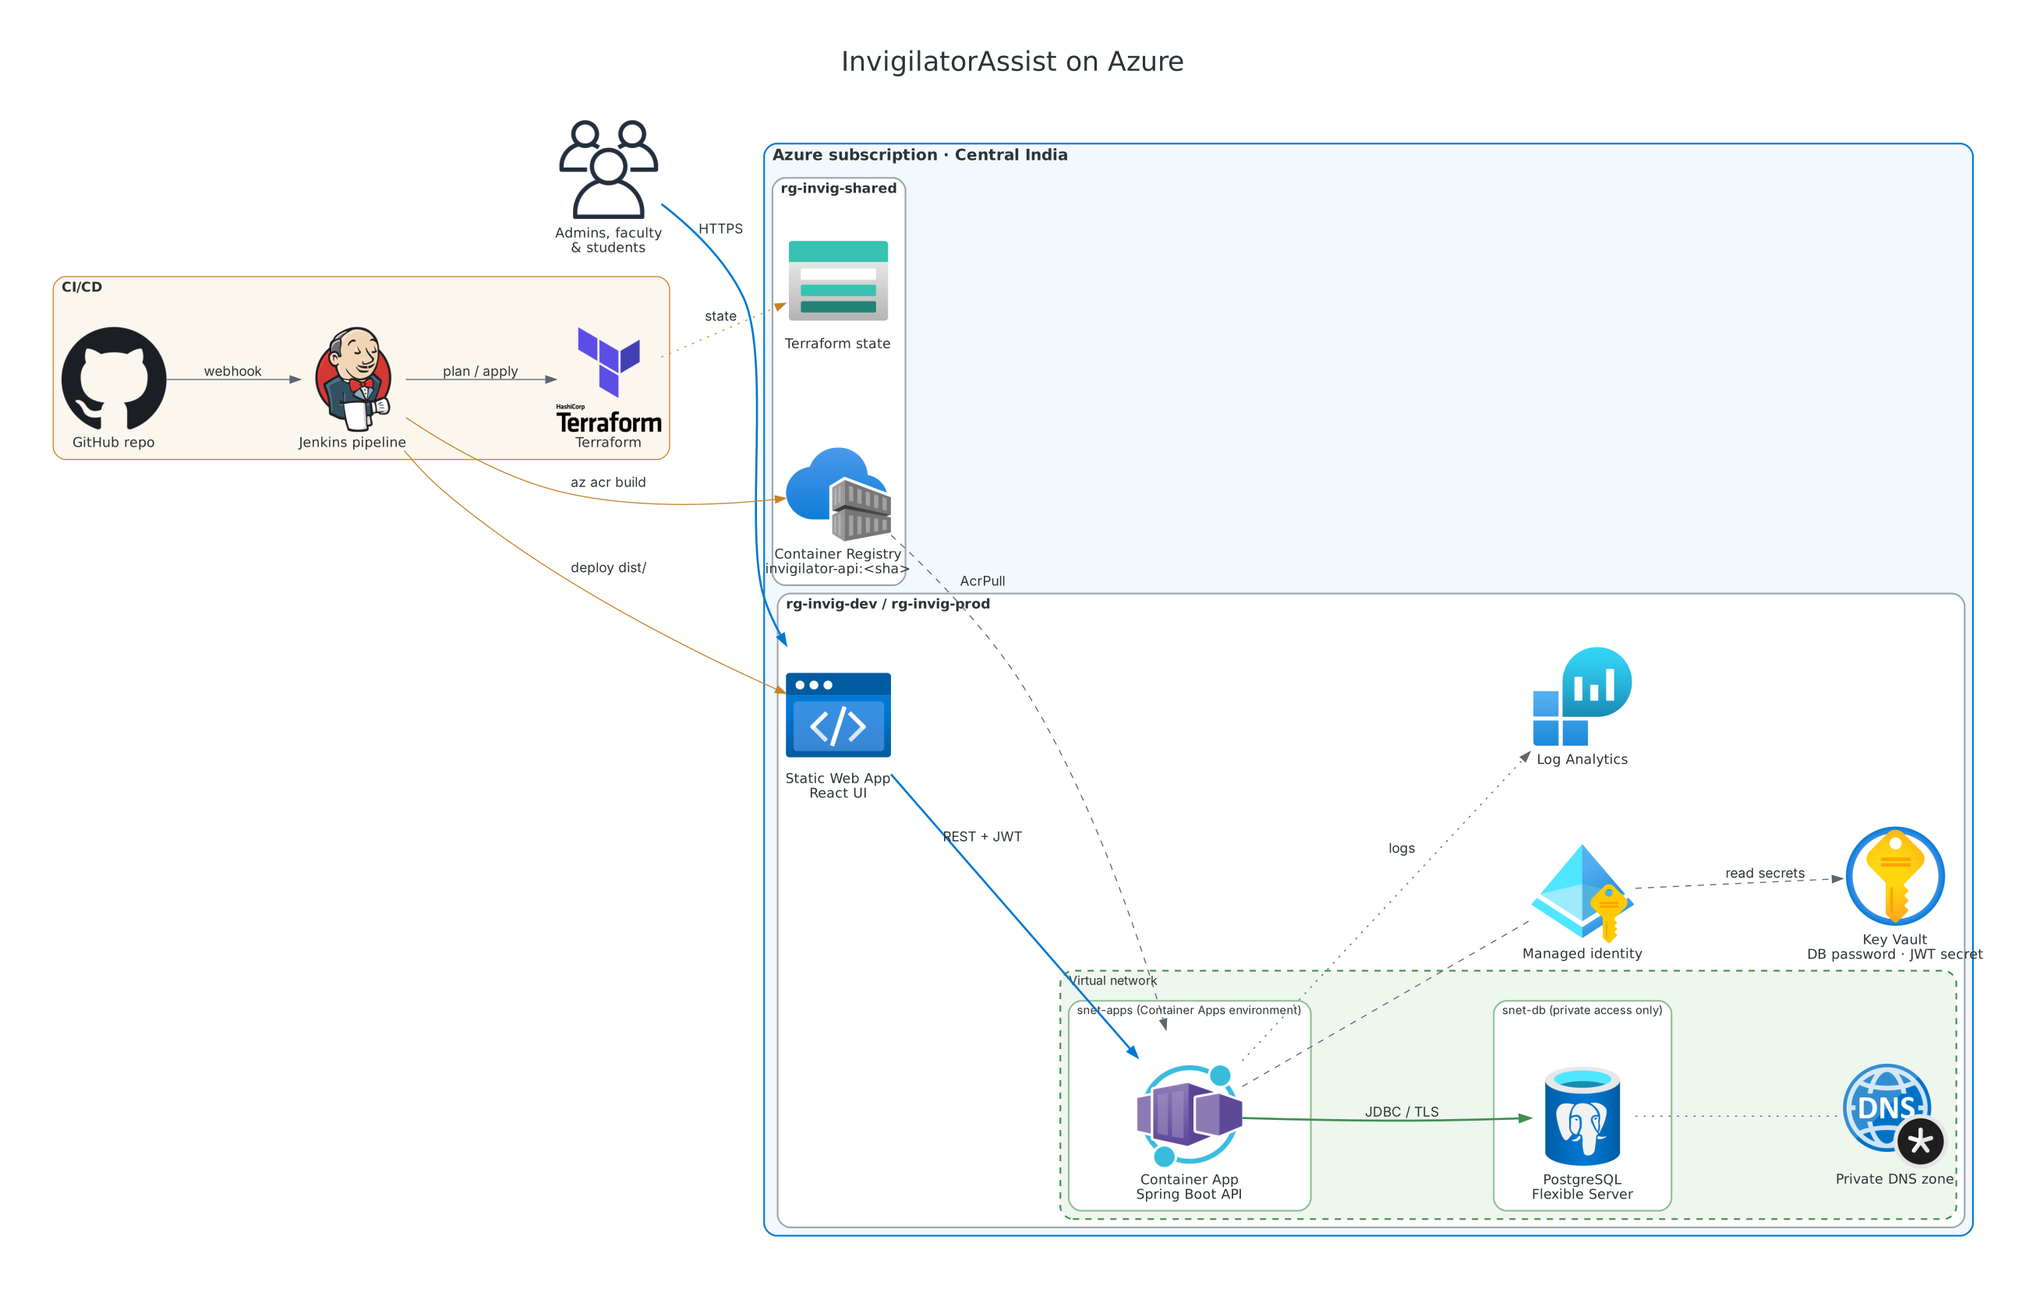
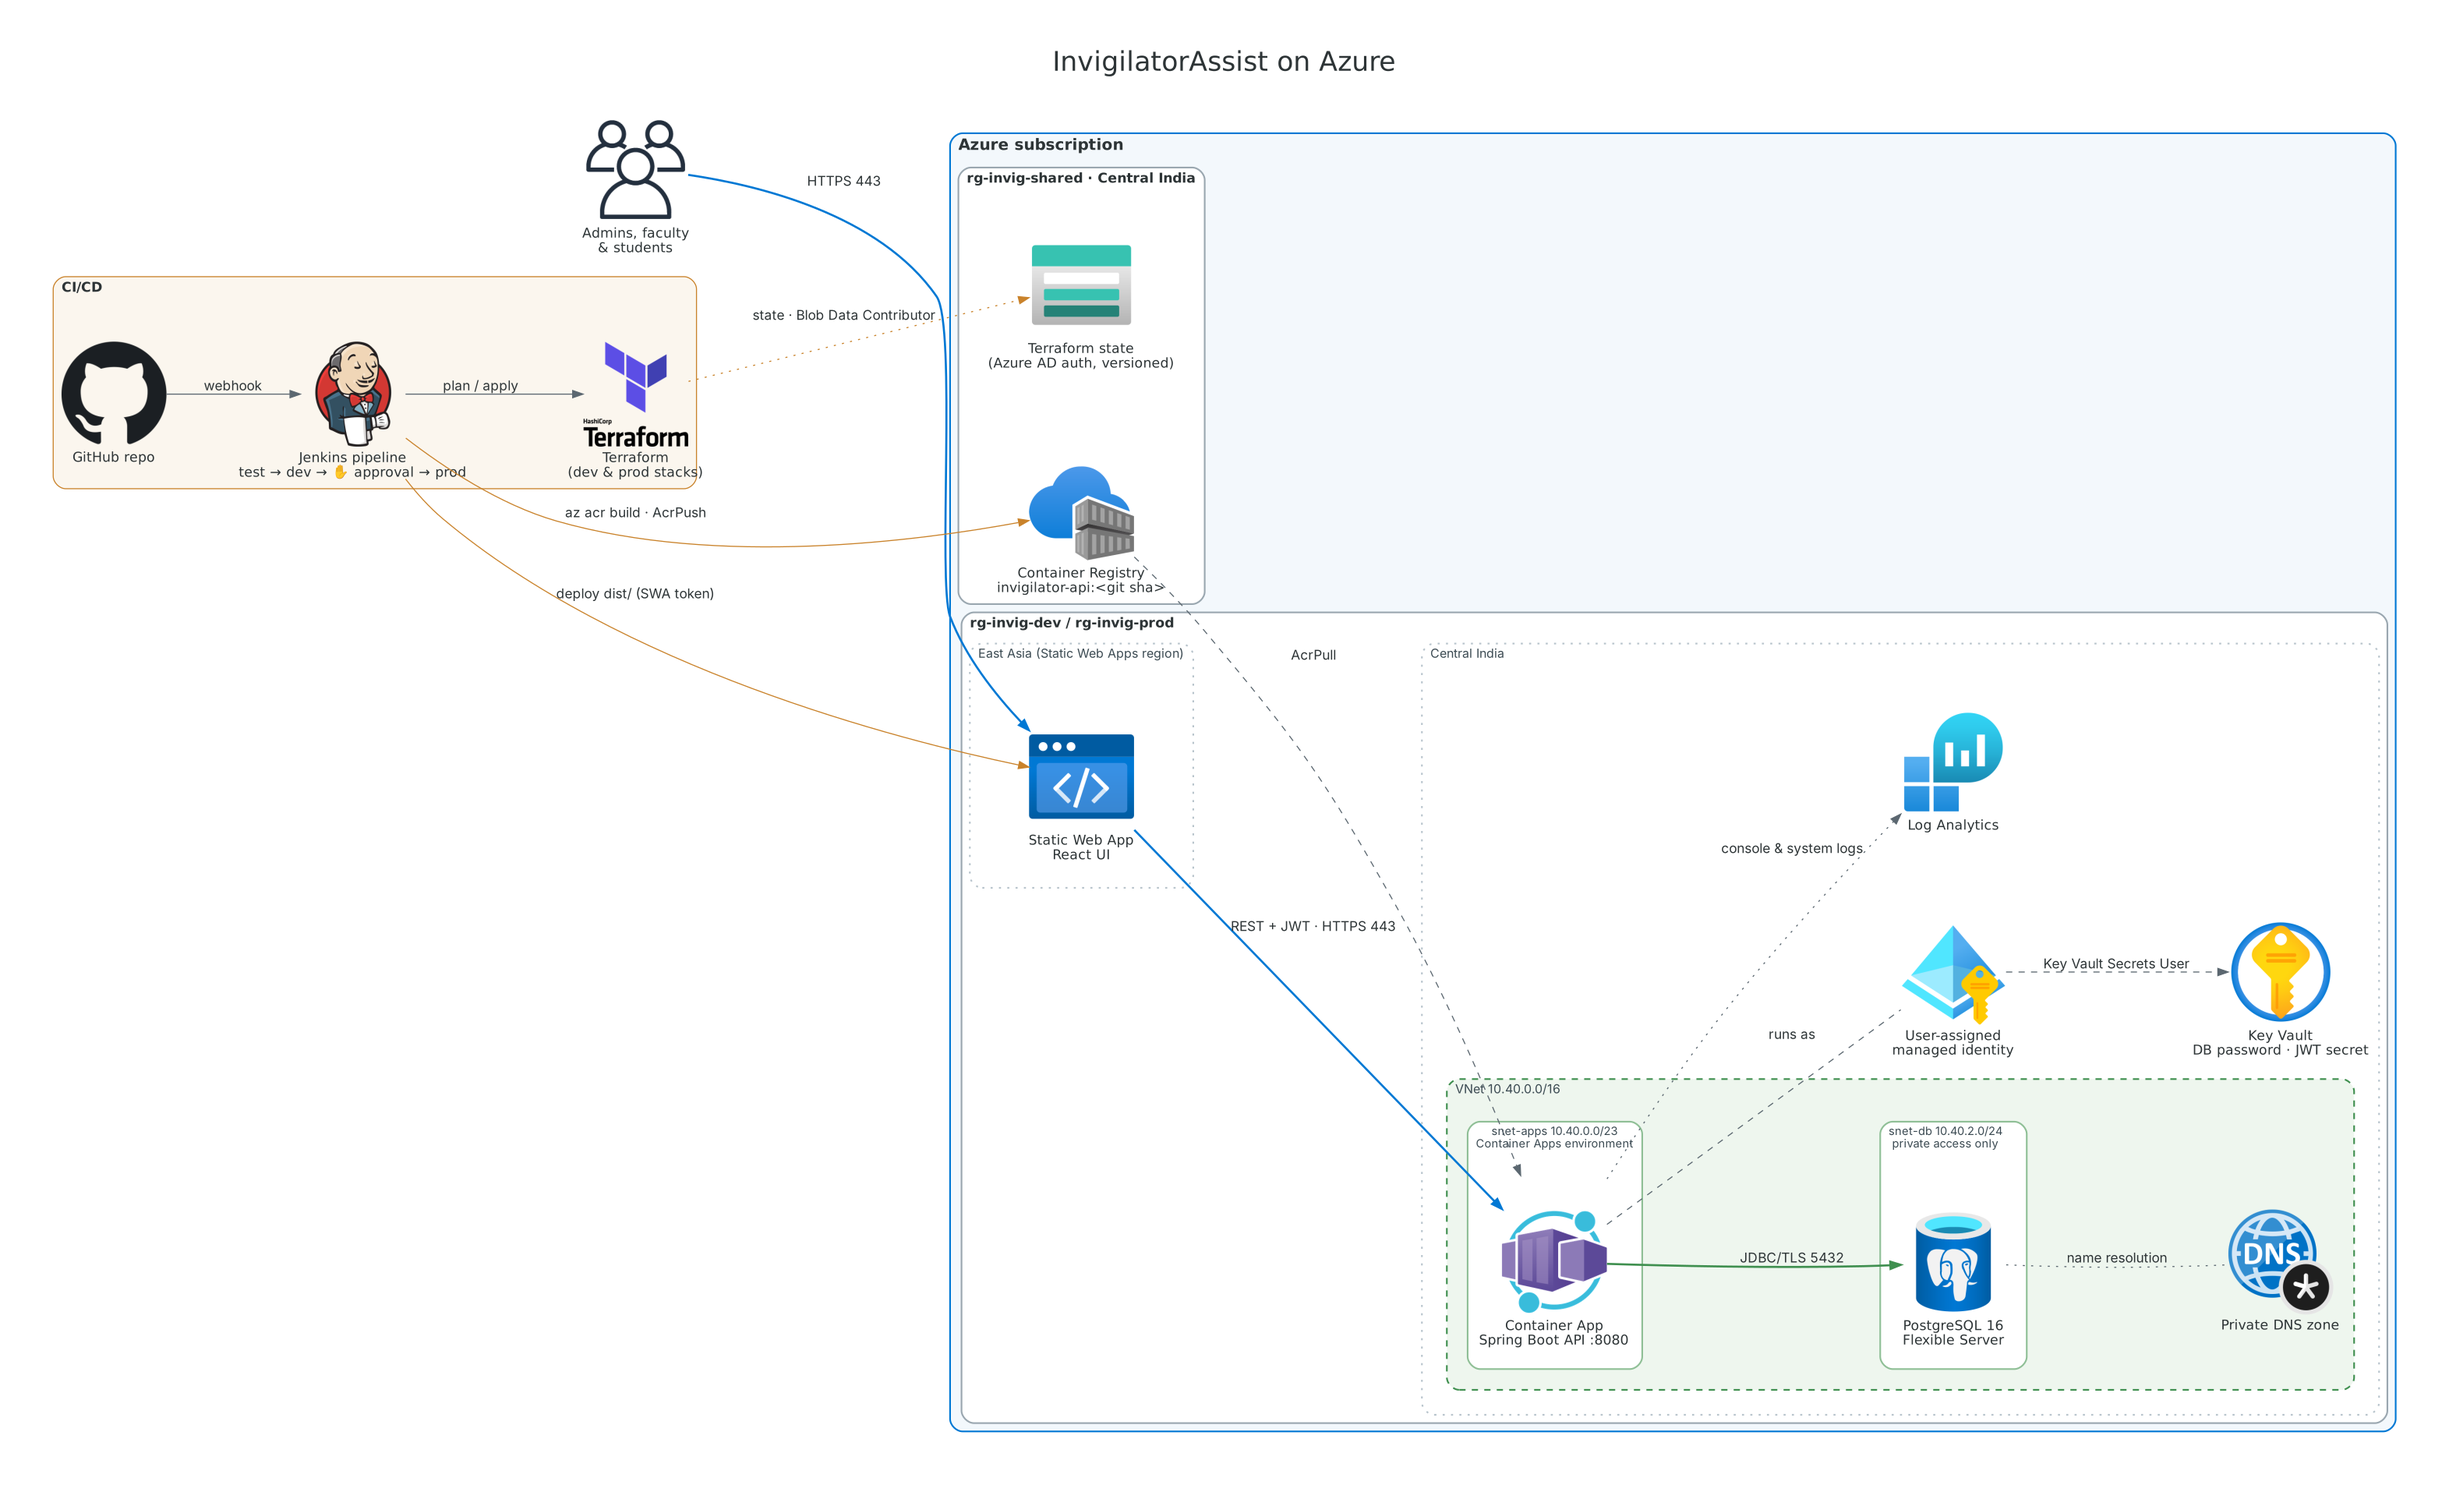
Add regions, address ranges, access roles and approval gate to architecture diagram
Claude-Session: https://claude.ai/code/session_01YKxd7Zfoeb8mF7orqzZJyx

diff --git a/docs/diagrams/architecture.py b/docs/diagrams/architecture.py
@@ -38,8 +38,9 @@ edge_attr = {"fontname": "Helvetica", "fontsize": "11", "color": "#5b6770"}
 
 azure_cluster = {"bgcolor": "#f3f8fc", "pencolor": "#0078d4", "penwidth": "1.6", "fontsize": "15", "fontname": "Helvetica-Bold"}
 rg_cluster = {"bgcolor": "#ffffff", "pencolor": "#9aa7b0", "style": "rounded", "fontsize": "13", "fontname": "Helvetica-Bold"}
-vnet_cluster = {"bgcolor": "#eef6ee", "pencolor": "#3f8f4f", "style": "dashed,rounded", "fontsize": "12"}
+vnet_cluster = {"margin": "20", "bgcolor": "#eef6ee", "pencolor": "#3f8f4f", "style": "dashed,rounded", "fontsize": "12"}
 subnet_cluster = {"bgcolor": "#ffffff", "pencolor": "#8fbf96", "style": "rounded", "fontsize": "11"}
+region_cluster = {"margin": "24", "bgcolor": "#ffffff", "pencolor": "#b8c4cc", "style": "dotted,rounded", "fontsize": "12", "fontcolor": "#3b4a52"}
 cicd_cluster = {"bgcolor": "#fbf6ee", "pencolor": "#c9822a", "style": "rounded", "fontsize": "13", "fontname": "Helvetica-Bold"}
 
 with Diagram(
@@ -56,42 +57,45 @@ with Diagram(
 
     with Cluster("CI/CD", graph_attr=cicd_cluster):
         github = Github("GitHub repo")
-        jenkins = Jenkins("Jenkins pipeline")
-        terraform = Terraform("Terraform")
+        jenkins = Jenkins("Jenkins pipeline\ntest → dev → ✋ approval → prod")
+        terraform = Terraform("Terraform\n(dev & prod stacks)")
         github >> Edge(label="webhook") >> jenkins
         jenkins >> Edge(label="plan / apply") >> terraform
 
-    with Cluster("Azure subscription · Central India", graph_attr=azure_cluster):
-        with Cluster("rg-invig-shared", graph_attr=rg_cluster):
-            acr = ContainerRegistries("Container Registry\ninvigilator-api:<sha>")
-            tfstate = StorageAccounts("Terraform state")
+    with Cluster("Azure subscription", graph_attr=azure_cluster):
+        with Cluster("rg-invig-shared · Central India", graph_attr=rg_cluster):
+            acr = ContainerRegistries("Container Registry\ninvigilator-api:<git sha>")
+            tfstate = StorageAccounts("Terraform state\n(Azure AD auth, versioned)")
 
         with Cluster("rg-invig-dev / rg-invig-prod", graph_attr=rg_cluster):
-            web = StaticApps("Static Web App\nReact UI")
-            kv = KeyVaults("Key Vault\nDB password · JWT secret")
-            identity = ManagedIdentities("Managed identity")
-            logs = LogAnalyticsWorkspaces("Log Analytics")
+            with Cluster("East Asia (Static Web Apps region)", graph_attr=region_cluster):
+                web = StaticApps("Static Web App\nReact UI")
 
-            with Cluster("Virtual network", graph_attr=vnet_cluster):
-                with Cluster("snet-apps (Container Apps environment)", graph_attr=subnet_cluster):
-                    api = ContainerApps("Container App\nSpring Boot API")
-                with Cluster("snet-db (private access only)", graph_attr=subnet_cluster):
-                    db = AzureDatabasePostgresqlServer("PostgreSQL\nFlexible Server")
-                dns = DNSPrivateZones("Private DNS zone")
+            with Cluster("Central India", graph_attr=region_cluster):
+                kv = KeyVaults("Key Vault\nDB password · JWT secret")
+                identity = ManagedIdentities("User-assigned\nmanaged identity")
+                logs = LogAnalyticsWorkspaces("Log Analytics")
+
+                with Cluster("VNet 10.40.0.0/16", graph_attr=vnet_cluster):
+                    with Cluster("snet-apps 10.40.0.0/23\nContainer Apps environment", graph_attr=subnet_cluster):
+                        api = ContainerApps("Container App\nSpring Boot API :8080")
+                    with Cluster("snet-db 10.40.2.0/24\nprivate access only", graph_attr=subnet_cluster):
+                        db = AzureDatabasePostgresqlServer("PostgreSQL 16\nFlexible Server")
+                    dns = DNSPrivateZones("Private DNS zone")
 
     # Request path
-    users >> Edge(label="HTTPS", color="#0078d4", penwidth="2") >> web
-    web >> Edge(label="REST + JWT", color="#0078d4", penwidth="2") >> api
-    api >> Edge(label="JDBC / TLS", color="#3f8f4f", penwidth="2") >> db
-    db - Edge(style="dotted") - dns
+    users >> Edge(label="HTTPS 443", color="#0078d4", penwidth="2") >> web
+    web >> Edge(label="REST + JWT · HTTPS 443", color="#0078d4", penwidth="2") >> api
+    api >> Edge(label="JDBC/TLS 5432", color="#3f8f4f", penwidth="2") >> db
+    db - Edge(label="name resolution", style="dotted") - dns
 
-    # Platform wiring
-    api - Edge(style="dashed") - identity
-    identity >> Edge(label="read secrets", style="dashed") >> kv
+    # Platform wiring (least-privilege roles of the app's identity)
+    api - Edge(label="runs as", style="dashed") - identity
+    identity >> Edge(label="Key Vault Secrets User", style="dashed") >> kv
     acr >> Edge(label="AcrPull", style="dashed") >> api
-    api >> Edge(label="logs", style="dotted") >> logs
+    api >> Edge(label="console & system logs", style="dotted") >> logs
 
-    # Delivery
-    jenkins >> Edge(label="az acr build", color="#c9822a") >> acr
-    jenkins >> Edge(label="deploy dist/", color="#c9822a") >> web
-    terraform >> Edge(label="state", style="dotted", color="#c9822a") >> tfstate
+    # Delivery (roles of the Jenkins service principal)
+    jenkins >> Edge(label="az acr build · AcrPush", color="#c9822a") >> acr
+    jenkins >> Edge(label="deploy dist/ (SWA token)", color="#c9822a") >> web
+    terraform >> Edge(label="state · Blob Data Contributor", style="dotted", color="#c9822a") >> tfstate
